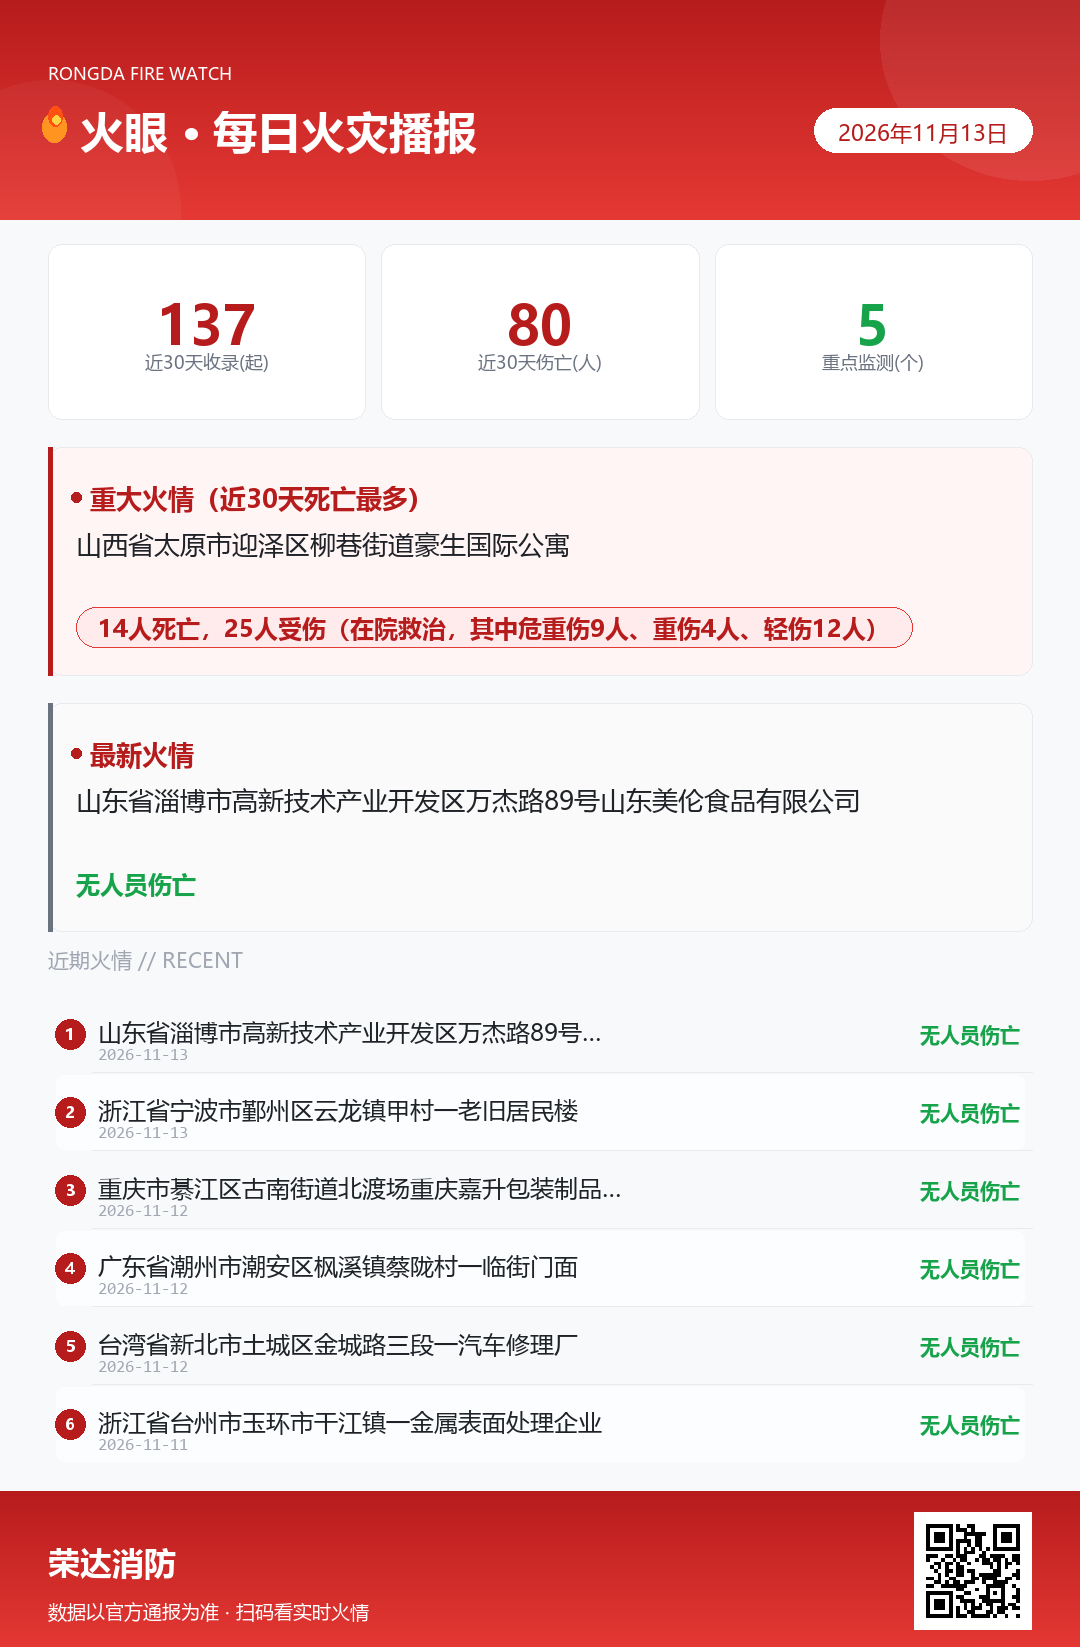
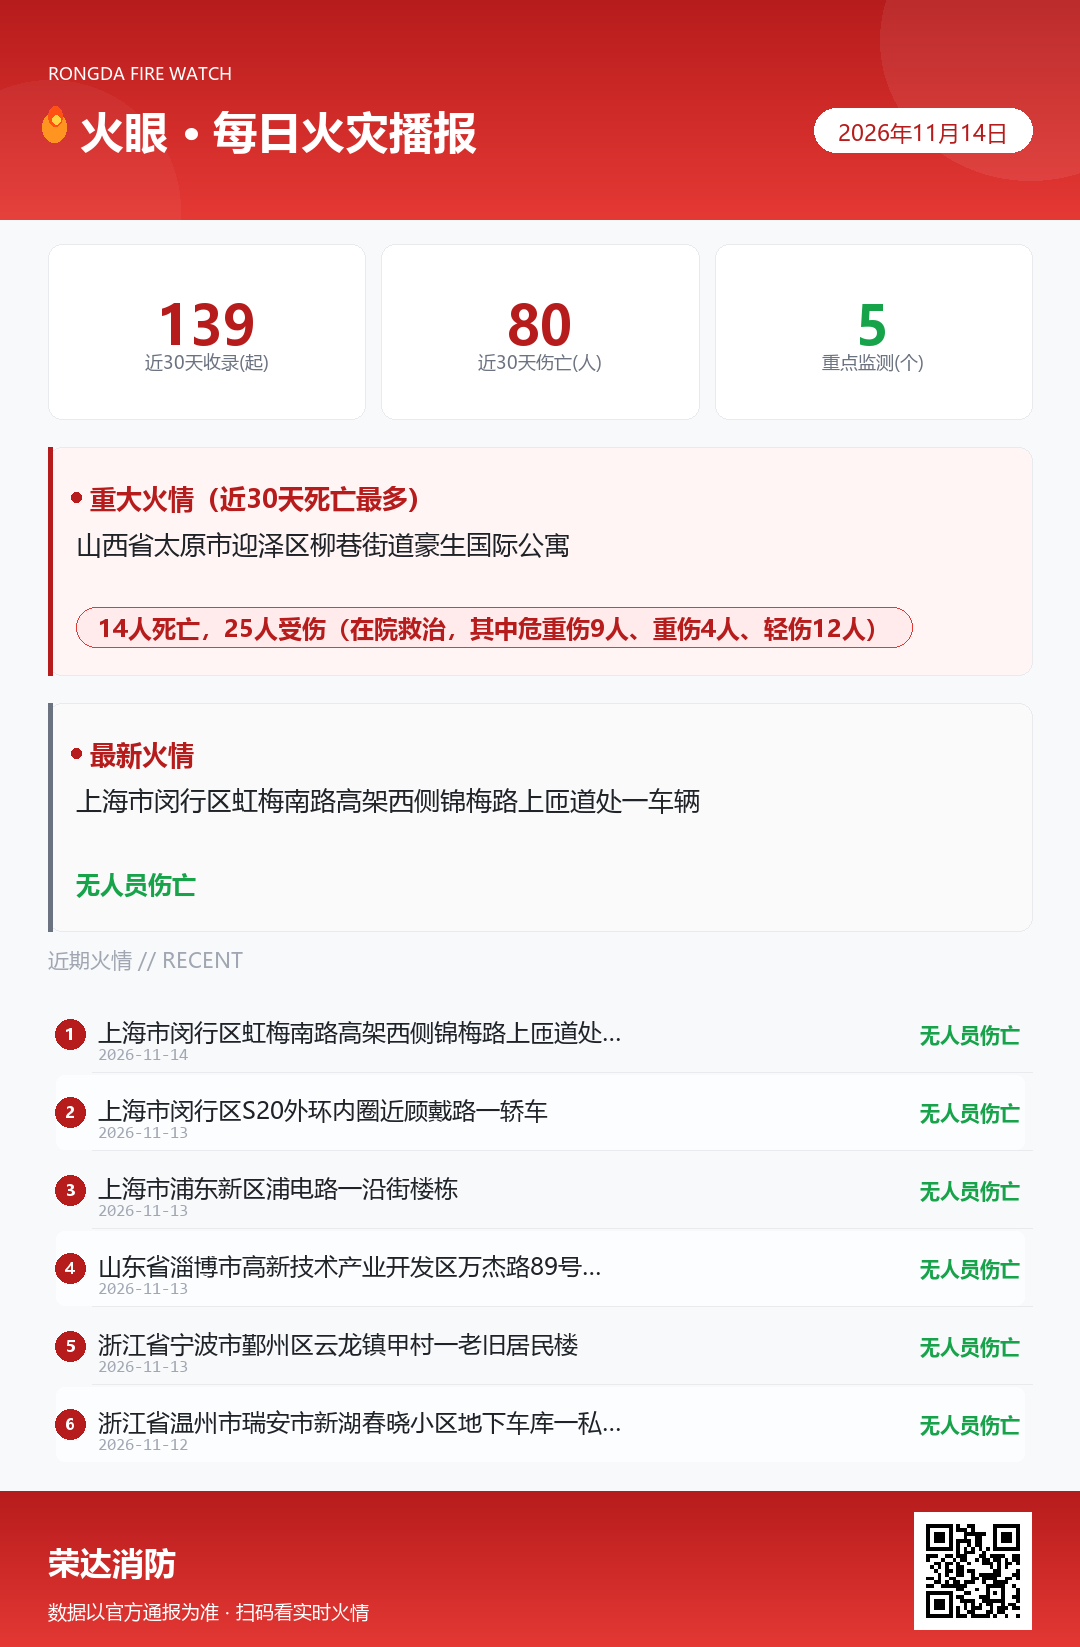
fire-daily-brief 2026-11-14 18:03 roll

diff --git a/index.html b/index.html
@@ -435,8 +435,8 @@
 <!-- ============ DATA（每日自动更新：由自动化脚本重写此对象） ============ -->
 <script id="brief-data" type="application/json">
 {
-  "date": "2026年11月13日",
-  "compileTime": "2026-11-13 17:57",
+  "date": "2026年11月14日",
+  "compileTime": "2026-11-14 18:02",
   "source": "AI 联网检索 · 各地消防救援机构官方通报及权威媒体转载",
   "range": "滚动更新 · 近 30 天",
   "stats": {
@@ -451,7 +451,7 @@
     },
     {
       "name": "上海市",
-      "status": "有官方通报（7·28/7·31 多起居民楼起火、8·4 闵行中春路单位建筑起火、8·7 虹口新市南路小区非机动车起火、8·10 浦东万安街路边车辆起火、8·17 G2京沪高速面包车起火、8·19 青浦盈浦街道居民顶楼起火、8·19 G1503绕城高速集卡追尾起火、8·28 浦东张江松涛路单位实验室起火、8·30 松江车墩镇松南城善德苑小区居民家中起火（无伤亡、9·1 凌晨浦东新区一社区居民楼6楼火情（2人送医）、9·1 杨浦新江湾城时代花园小区居民楼起火（无伤亡；9·1 松江区明中苑小区室外非机动车停车区域多辆非机动车烧毁（无伤亡、9·7 杨浦区殷行路近军工路小区垃圾房起火（无伤亡）、9·18 松江区泗泾镇方泗公路一辆新能源车追尾后起火燃烧（无人员伤亡）、9·28 浦东新区高青路一小区室外非机动车停车棚起火，多辆非机动车烧毁（无伤亡）、9·29 静安区天通庵路一工地内仓库起火（无伤亡）、9·29 崧泽高架平板牵引车起火（无伤亡）、10·9 宝山区上海大学南区学生公寓一女生宿舍起火（无人员伤亡）、10·9 青浦区城中西路一居民楼顶楼民宅起火（无人员伤亡报告））、10·12 杨浦区翔殷路791弄兰花新村小区一居民家中起火（2人送医，情况稳定、10·14 徐汇区天平街道一老式居民楼凌晨火情（充电宝故障热失控，无伤亡）、10·15 嘉定区沪宜公路近双丁路一处室外垃圾堆起火（燃烧垃圾渔网等杂物，无伤亡）、10·16 嘉定区曹安公路近联群路一区域起火（夜间露天区域起火，无伤亡）、10·17 杨浦区控江六村小区底楼一居民家中起火（无伤亡，一辆电动自行车烧毁）、10·17 S1迎宾高速近启航路出口匝道一轿车起火（无伤亡）、10·18 杨浦区殷行路430弄小区居民家中起火（无伤亡，原因调查中）、10·22 普陀区杏山路近梅岭南路一沿街面馆起火（无伤亡，起因调查中）、10·23 宝山区岭南路1288弄岭南雅苑一顶楼复式居民家起火（火势较大，无人员伤亡，原因调查中）、10·24 松江区新育路750弄雅鹿新苑二期小区一居民家起火（底楼住户，无人员伤亡，原因调查中、10·21 奉贤区一小区停车场居民擅自用转接头接新能源汽车充电桩给电动自行车充电引发火灾（充电桩与电动自行车烧损烧毁，无人员伤亡）、10·25 静安区平型关路2199弄小区非机动车停放区域起火（6辆电动自行车烧毁，无人员伤亡））、10·28 北横通道东向西转中环匝道口一面包车车头起火（晚高峰，临时封一根车道、后方拥堵约4公里，无伤亡）、10·28 G1503 绕城高速内圈近重固立交处一装载纸板小货车行驶中起火（车内2人及时下车无伤，18时许处置完毕，无伤亡）、10·31 嘉定区温宿路城中路桃园小区一底楼居民家起火（外立面2楼至顶楼熏黑、多户玻璃碎裂与空调外机烧毁，无人员伤亡，原因调查中）、11·01 闵行区金都路都会路路口一轿车撞绿化带侧翻后车头起火（车内人员及时撤出，无伤亡，原因调查中）、11·02 浦东新区定水路50弄西镇小区某号3楼一户居民家起火（窗玻璃烧碎坠地，3楼至顶楼外立面与空调外机熏黑，无人员伤亡，原因调查中）、11·02 静安区上海大学延长路校区一处实验室在抢险救援过程中发生爆炸（涉事学生轻微伤、无人死亡，原因调查中）、11·03 嘉定区海波路一公司临时搭建板房起火（燃烧物为板房内堆放杂物和垃圾，无人员伤亡，原因调查中）、11·06 虹口区四达路58弄小区一住宅起火（疑空调外机起火，明火很快被扑灭，无人员伤亡，原因正在调查中、11·08 浦东新区锦绣路近花木路一停车场内单层房屋起火（屋内有明火蹿出、烟雾随高湿空气弥散至周边道路，社区消防站先期铺设水带扑救，无人员伤亡，原因调查中）、11·09 浦东新区万农路附近一种植大棚起火（上午11时许，多辆消防车到场铺设水带出水扑救、明火很快被扑灭，无人员伤亡，原因调查中）"
+      "status": "有官方通报（7·28/7·31 多起居民楼起火、8·4 闵行中春路单位建筑起火、8·7 虹口新市南路小区非机动车起火、8·10 浦东万安街路边车辆起火、8·17 G2京沪高速面包车起火、8·19 青浦盈浦街道居民顶楼起火、8·19 G1503绕城高速集卡追尾起火、8·28 浦东张江松涛路单位实验室起火、8·30 松江车墩镇松南城善德苑小区居民家中起火（无伤亡、9·1 凌晨浦东新区一社区居民楼6楼火情（2人送医）、9·1 杨浦新江湾城时代花园小区居民楼起火（无伤亡；9·1 松江区明中苑小区室外非机动车停车区域多辆非机动车烧毁（无伤亡、9·7 杨浦区殷行路近军工路小区垃圾房起火（无伤亡）、9·18 松江区泗泾镇方泗公路一辆新能源车追尾后起火燃烧（无人员伤亡）、9·28 浦东新区高青路一小区室外非机动车停车棚起火，多辆非机动车烧毁（无伤亡）、9·29 静安区天通庵路一工地内仓库起火（无伤亡）、9·29 崧泽高架平板牵引车起火（无伤亡）、10·9 宝山区上海大学南区学生公寓一女生宿舍起火（无人员伤亡）、10·9 青浦区城中西路一居民楼顶楼民宅起火（无人员伤亡报告））、10·12 杨浦区翔殷路791弄兰花新村小区一居民家中起火（2人送医，情况稳定、10·14 徐汇区天平街道一老式居民楼凌晨火情（充电宝故障热失控，无伤亡）、10·15 嘉定区沪宜公路近双丁路一处室外垃圾堆起火（燃烧垃圾渔网等杂物，无伤亡）、10·16 嘉定区曹安公路近联群路一区域起火（夜间露天区域起火，无伤亡）、10·17 杨浦区控江六村小区底楼一居民家中起火（无伤亡，一辆电动自行车烧毁）、10·17 S1迎宾高速近启航路出口匝道一轿车起火（无伤亡）、10·18 杨浦区殷行路430弄小区居民家中起火（无伤亡，原因调查中）、10·22 普陀区杏山路近梅岭南路一沿街面馆起火（无伤亡，起因调查中）、10·23 宝山区岭南路1288弄岭南雅苑一顶楼复式居民家起火（火势较大，无人员伤亡，原因调查中）、10·24 松江区新育路750弄雅鹿新苑二期小区一居民家起火（底楼住户，无人员伤亡，原因调查中、10·21 奉贤区一小区停车场居民擅自用转接头接新能源汽车充电桩给电动自行车充电引发火灾（充电桩与电动自行车烧损烧毁，无人员伤亡）、10·25 静安区平型关路2199弄小区非机动车停放区域起火（6辆电动自行车烧毁，无人员伤亡））、10·28 北横通道东向西转中环匝道口一面包车车头起火（晚高峰，临时封一根车道、后方拥堵约4公里，无伤亡）、10·28 G1503 绕城高速内圈近重固立交处一装载纸板小货车行驶中起火（车内2人及时下车无伤，18时许处置完毕，无伤亡）、10·31 嘉定区温宿路城中路桃园小区一底楼居民家起火（外立面2楼至顶楼熏黑、多户玻璃碎裂与空调外机烧毁，无人员伤亡，原因调查中）、11·01 闵行区金都路都会路路口一轿车撞绿化带侧翻后车头起火（车内人员及时撤出，无伤亡，原因调查中）、11·02 浦东新区定水路50弄西镇小区某号3楼一户居民家起火（窗玻璃烧碎坠地，3楼至顶楼外立面与空调外机熏黑，无人员伤亡，原因调查中）、11·02 静安区上海大学延长路校区一处实验室在抢险救援过程中发生爆炸（涉事学生轻微伤、无人死亡，原因调查中）、11·03 嘉定区海波路一公司临时搭建板房起火（燃烧物为板房内堆放杂物和垃圾，无人员伤亡，原因调查中）、11·06 虹口区四达路58弄小区一住宅起火（疑空调外机起火，明火很快被扑灭，无人员伤亡，原因正在调查中、11·08 浦东新区锦绣路近花木路一停车场内单层房屋起火（屋内有明火蹿出、烟雾随高湿空气弥散至周边道路，社区消防站先期铺设水带扑救，无人员伤亡，原因调查中）、11·09 浦东新区万农路附近一种植大棚起火（上午11时许，多辆消防车到场铺设水带出水扑救、明火很快被扑灭，无人员伤亡，原因调查中、11·13 浦东新区浦电路一沿街楼栋起火（无人员伤亡，原因调查中）、11·13 S20外环内圈近顾戴路一轿车起火（车辆烧毁，无人员伤亡，原因调查中）、11·14 闵行区虹梅南路高架锦梅路上匝道处一车辆起火（清晨6时30分许，无人员伤亡，原因调查中））"
     },
     {
       "name": "广州市",
@@ -463,13 +463,13 @@
     }
   ],
   "case": {
-    "date": "2026-11-13",
-    "location": "山东省淄博市高新技术产业开发区万杰路89号山东美伦食品有限公司",
-    "category": "工厂/车间",
-    "summary": "11月13日上午10时许，淄博高新技术产业开发区万杰路89号山东美伦食品有限公司厂区起火，网传视频显示现场浓烟弥漫至半空、多辆消防车抵达。淄博高新技术产业开发区管理委员会当日15时40分许回应媒体称，起火地点为山东美伦食品有限公司，现场火已被扑灭，无人员伤亡；高新区应急管理中心表示各级相关部门均参与处置、目前处置已结束。高新区消防救援大队表示火势已扑灭、起火原因正在调查。该公司专业从事冰淇淋研发、生产和销售，拥有多条全自动冰淇淋生产线，今年8月放假、近期正准备复工，事发后员工已接到延迟开工通知。",
+    "date": "2026-11-14",
+    "location": "上海市闵行区虹梅南路高架西侧锦梅路上匝道处一车辆",
+    "category": "交通枢纽",
+    "summary": "11月14日清晨6时30分左右，上海闵行区虹梅南路高架西侧、往虹梅南路隧道方向过锦梅路路口，一辆车停在锦梅路上匝道处起火，车内有明火蹿出、火势迅速蔓延，现场黑烟滚滚。事发后车上人员下车报警，交警与消防部门相继到场处置，为配合施救现场交通临时阻断。经扑救火灾被完全扑灭，未造成人员伤亡，上午7时14分事故处理结束。目前车辆起火原因正在调查中。",
     "casualty": "无人员伤亡",
-    "cause": "起火原因正在调查中",
-    "src": "新京报、大河报（2026-11-13，据淄博高新区管委会、高新区应急管理中心、高新区消防救援大队回应）"
+    "cause": "车辆起火原因正在调查中",
+    "src": "新民晚报（2026-11-14，记者夏韵）"
   },
   "tips": [
     "住宅类火情近30天49起居首、占超三成，电气与堆物是主因：上海11·06空调外机起火熏黑整栋、香港11·07香薰点燃杂物致1死、多起老旧插头“九年未拔”与排插长期通电。立冬后取暖用电负荷上升，老旧插排和长通插头赶紧换，空调外机周边清走杂物与积尘，人离即断。",
@@ -489,6 +489,33 @@
   ],
   "history": [
     {
+      "date": "2026-11-14",
+      "location": "上海市闵行区虹梅南路高架西侧锦梅路上匝道处一车辆",
+      "category": "交通枢纽",
+      "summary": "11月14日清晨6时30分左右，上海闵行区虹梅南路高架西侧、往虹梅南路隧道方向过锦梅路路口，一辆车停在锦梅路上匝道处起火，车内有明火蹿出、火势迅速蔓延，现场黑烟滚滚。事发后车上人员下车报警，交警与消防部门相继到场处置，为配合施救现场交通临时阻断。经扑救火灾被完全扑灭，未造成人员伤亡，上午7时14分事故处理结束。目前车辆起火原因正在调查中。",
+      "casualty": "无人员伤亡",
+      "cause": "车辆起火原因正在调查中",
+      "src": "新民晚报（2026-11-14，记者夏韵）"
+    },
+    {
+      "date": "2026-11-13",
+      "location": "上海市闵行区S20外环内圈近顾戴路一轿车",
+      "category": "交通枢纽",
+      "summary": "11月13日20时25分，上海S20外环内圈近顾戴路发生一起轿车起火事故。据目击市民介绍，车辆冒火后火势迅速蔓延，很快整车陷入火海；车上人员迅速下车、及时报警，并在车辆后方放置三角警示标识，后方途经车辆纷纷提前变道绕行。交警、消防和牵引施救人员接报后到场，经消防队员扑救，火势很快被完全扑灭。事故造成轿车烧毁，未造成人员伤亡，具体原因正在进一步调查中。",
+      "casualty": "无人员伤亡",
+      "cause": "起火具体原因正在进一步调查中",
+      "src": "新民晚报（2026-11-13，记者徐驰）"
+    },
+    {
+      "date": "2026-11-13",
+      "location": "上海市浦东新区浦电路一沿街楼栋",
+      "category": "其他",
+      "summary": "11月13日下午，上海浦东新区浦电路一处沿街楼栋起火。消防部门接报后迅速到场处置，先疏散楼内人员，随后将明火扑灭。据网友拍摄的照片，起火建筑向外冒出烟雾，临街墙面和几扇窗户被熏黑。火灾未造成人员伤亡，消防部门正在调查具体起火原因。",
+      "casualty": "无人员伤亡",
+      "cause": "具体起火原因正在调查中",
+      "src": "新民晚报、上观新闻（2026-11-13，记者徐驰）"
+    },
+    {
       "date": "2026-11-13",
       "location": "山东省淄博市高新技术产业开发区万杰路89号山东美伦食品有限公司",
       "category": "工厂/车间",
@@ -505,6 +532,15 @@
       "casualty": "无人员伤亡",
       "cause": "起火原因正在调查中",
       "src": "海报新闻（2026-11-13，据宁波市鄞州区云龙镇人民政府确认）"
+    },
+    {
+      "date": "2026-11-12",
+      "location": "浙江省温州市瑞安市新湖春晓小区地下车库一私家车",
+      "category": "交通枢纽",
+      "summary": "11月12日12时50分左右，浙江温州瑞安市新湖春晓小区地下车库内一辆私家车燃起明火。车库空间密闭、周边车辆停放密集，存在连环起火风险。车主发现后第一时间联系物业报警，物业同步拨打119并通知微型消防站；值班队员2分钟内携带干粉灭火器抵达起火点，约10秒将明火全部扑灭，阻止了火势蔓延。随后瑞安市消防救援大队救援人员到场排查余火，确认无复燃隐患。事故未造成人员伤亡。",
+      "casualty": "无人员伤亡",
+      "cause": "起火原因尚待查明",
+      "src": "环球网资讯（转载FM93交通之声，2026-11-14，记者陈裕杰，据瑞安市消防救援大队到场处置）"
     },
     {
       "date": "2026-11-12",
@@ -532,6 +568,15 @@
       "casualty": "无人员伤亡（2名年近80岁民众自行避难，无明显外伤、意识清醒，未送医）",
       "cause": "起火原因待火灾鉴识中心调查厘清",
       "src": "中央社（2026-11-12，据新北市消防局、环保局通报）"
+    },
+    {
+      "date": "2026-11-11",
+      "location": "湖南省长沙市经济技术开发区一小区住户家中",
+      "category": "住宅/民房",
+      "summary": "11月11日中午，长沙市消防救援支队接警：长沙经开区某小区一住户家中发生火灾，长沙经开区消防救援大队天华消防救援站赶赴处置。到场时屋内火势处于猛烈燃烧阶段、浓烟不断向外翻涌，救援人员铺设水带架设水枪压制明火，明火扑灭后持续出水对燃烬区域冷却降温，从到场到处置完毕全程不到20分钟。据住户介绍，起火原因为家中孩童拿打火机引燃卧室棉被，棉被周边堆放大量衣物等易燃物致火势快速蔓延；住户闻到焦糊味后查看发现无法自行泼水扑灭，立即拨打119。经消防现场勘查，该户家中打火机随意摆放、随处可见，未集中收纳。火灾未造成人员伤亡。",
+      "casualty": "无人员伤亡",
+      "cause": "孩童拿打火机引燃卧室棉被（家中打火机随处摆放、未集中收纳）",
+      "src": "长沙晚报·掌上长沙（2026-11-13，记者周小华，据长沙经开区消防救援大队）"
     },
     {
       "date": "2026-11-11",
